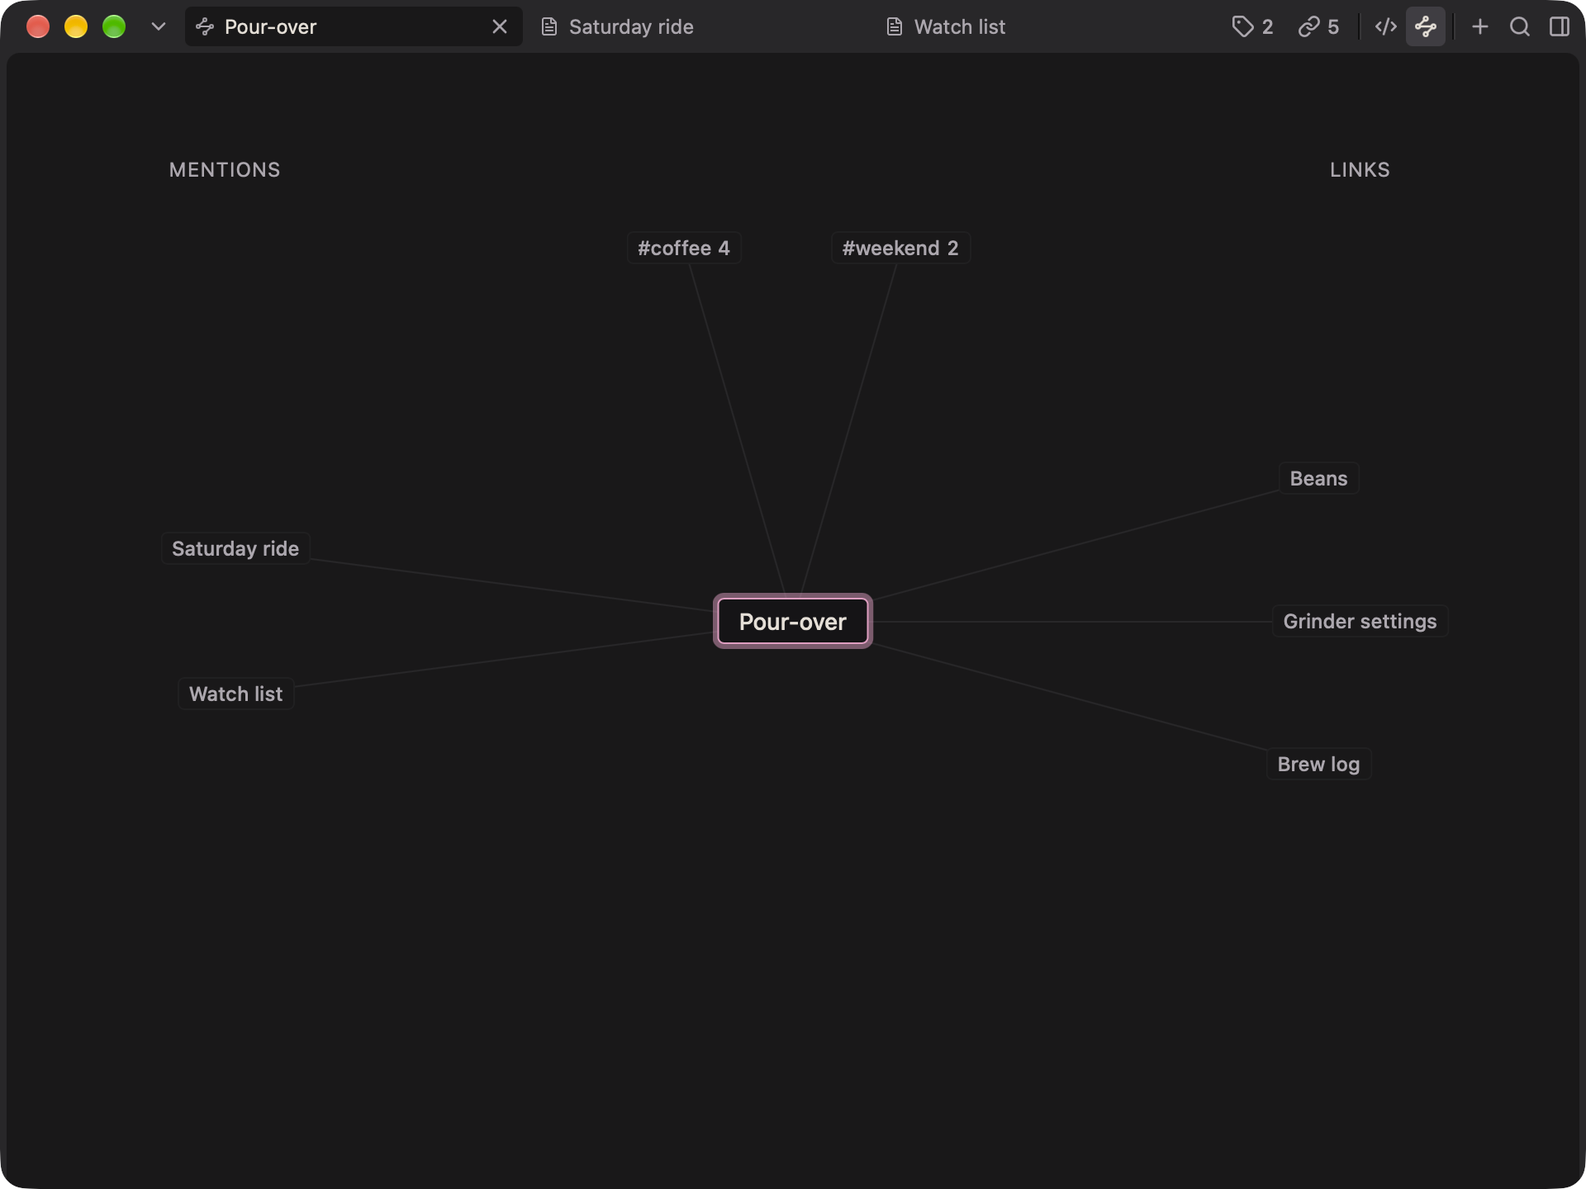
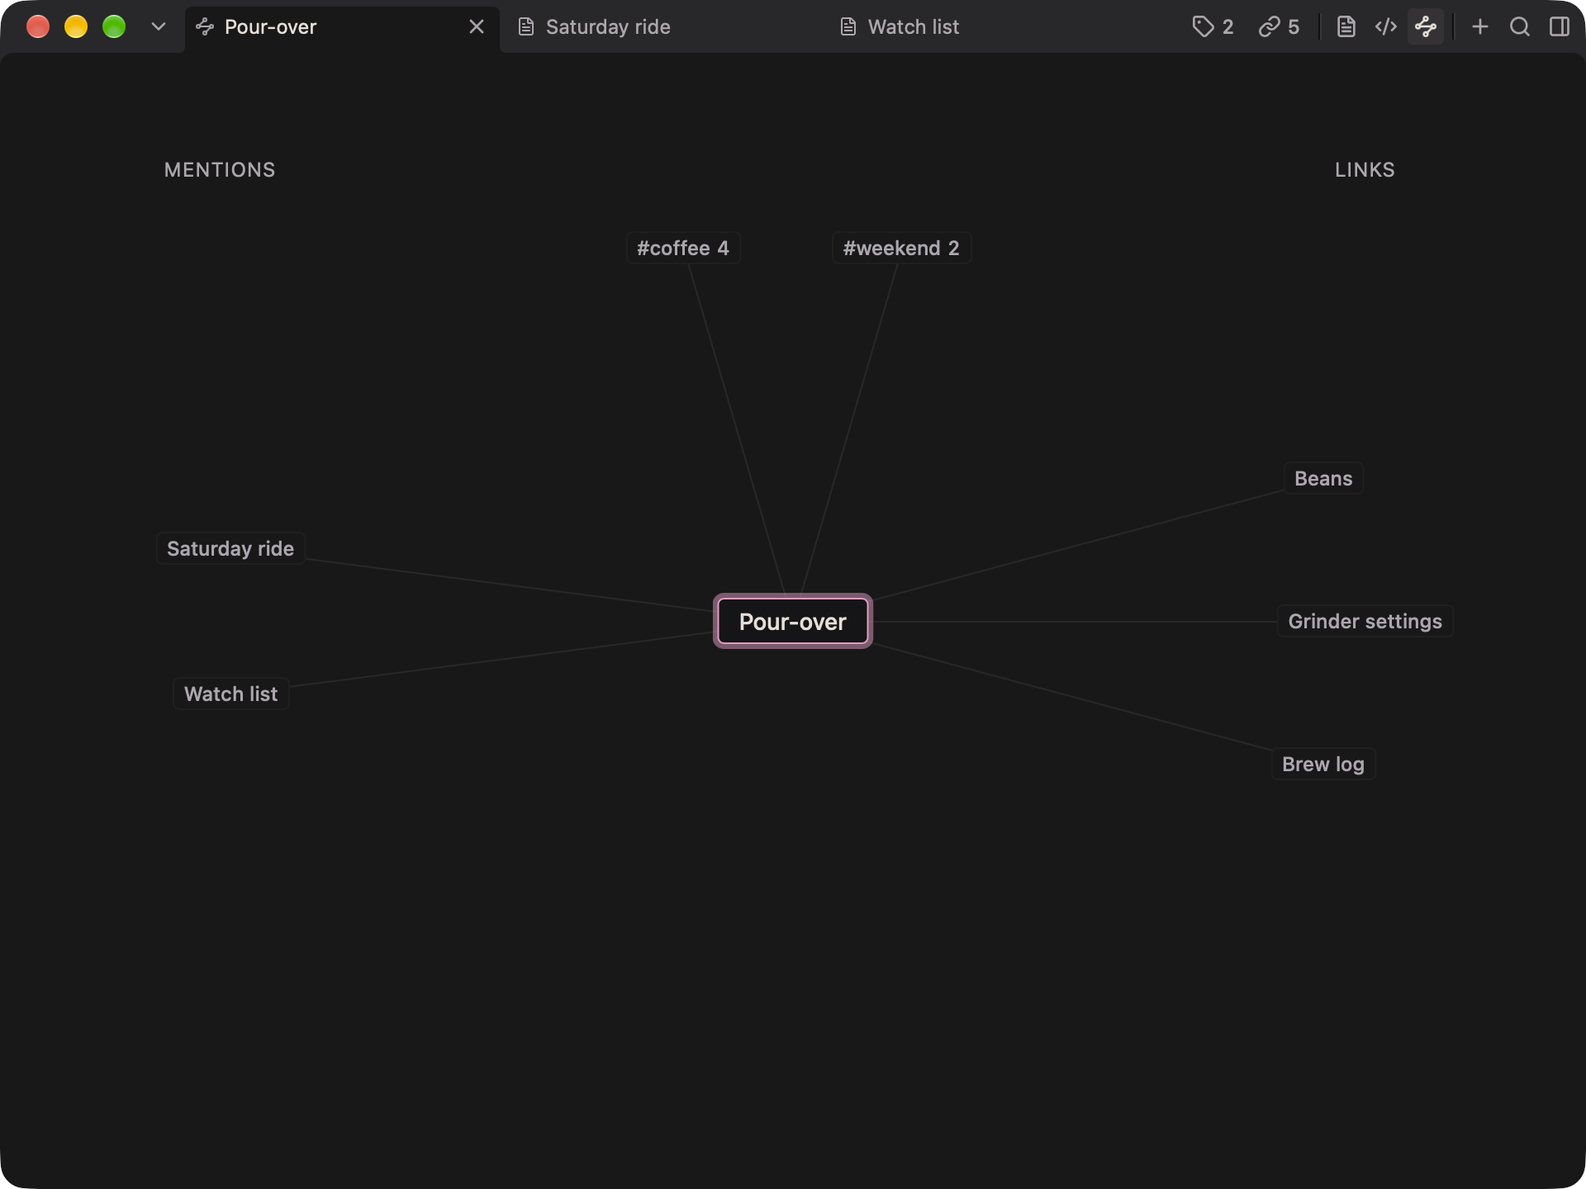
feat(tabs): ✨ attach tabs to the note & hold their width (#450)

diff --git a/src/components/tabs/tab-strip.tsx b/src/components/tabs/tab-strip.tsx
@@ -12,6 +12,7 @@ import {
   useSensor,
   useSensors,
 } from "@dnd-kit/core";
+import { restrictToParentElement } from "@dnd-kit/modifiers";
 import type { AnimateLayoutChanges } from "@dnd-kit/sortable";
 import {
   defaultAnimateLayoutChanges,
@@ -232,7 +233,7 @@ function TabItem({ active, notesDir, sole, tab }: TabItemProps) {
           button a sibling of the tab rather than a child of it. */}
       <span
         className={cn(
-          "group tab-motion hover:text-foreground has-[:focus-visible]:outline-ring flex h-6 max-w-56 min-w-24 flex-1 basis-0 items-center rounded-sm has-[:focus-visible]:outline-2 has-[:focus-visible]:-outline-offset-2",
+          "group tab-motion tab-shape hover:text-foreground has-[:focus-visible]:outline-ring flex h-7 max-w-56 min-w-24 flex-1 basis-0 items-center rounded-t-sm has-[:focus-visible]:outline-2 has-[:focus-visible]:-outline-offset-2",
           active
             ? "bg-background text-foreground"
             : "hover:bg-muted dark:hover:bg-muted/50",
@@ -253,7 +254,9 @@ function TabItem({ active, notesDir, sole, tab }: TabItemProps) {
           <button
             aria-controls={tabPanelId(id)}
             aria-selected={active}
-            className="flex min-w-0 flex-1 items-center ps-1.5 text-start focus-visible:outline-none"
+            // The whole box, with the close button floating over its end, so
+            // every press outside that button is the tab's.
+            className="flex min-w-0 flex-1 items-center self-stretch ps-1.5 pe-7 pb-1 text-start focus-visible:outline-none"
             // `deep`, since a bare mark only counts a press on the button itself
             // and the label and glyph sit inside it.
             data-tauri-drag-region={sole ? "deep" : undefined}
@@ -272,7 +275,7 @@ function TabItem({ active, notesDir, sole, tab }: TabItemProps) {
           <button
             aria-label={`close ${label}`}
             className={cn(
-              "hover:bg-muted hover:text-foreground ms-1 me-1 inline-flex size-5 shrink-0 items-center justify-center rounded-sm opacity-0 transition-all duration-150 ease-out group-hover:opacity-100 focus-visible:opacity-100",
+              "hover:bg-muted hover:text-foreground absolute end-1 top-0.5 inline-flex size-5 items-center justify-center rounded-sm opacity-0 transition duration-150 ease-out group-hover:opacity-100 focus-visible:opacity-100",
               active && "text-muted-foreground opacity-100"
             )}
             data-tab-close
@@ -449,9 +452,11 @@ function TabList({ activeId, tabs }: TabListProps) {
     // Synchronous, or a frame of cut tabs paints first.
     const observer = new ResizeObserver(() => {
       flushSync(() => {
+        // `clientWidth` holds two gaps of padding for the feet, and the last
+        // tab needs no gap after it, so one gap comes off.
         setFit(
           Math.floor(
-            (list.clientWidth + TAB_GAP_PX) / (TAB_MIN_PX + TAB_GAP_PX)
+            (list.clientWidth - TAB_GAP_PX) / (TAB_MIN_PX + TAB_GAP_PX)
           )
         );
       });
@@ -507,6 +512,7 @@ function TabList({ activeId, tabs }: TabListProps) {
         collisionDetection={closestCenter}
         // What lets `animateLayoutChanges` see a change no drag made.
         measuring={{ droppable: { strategy: MeasuringStrategy.Always } }}
+        modifiers={[restrictToParentElement]}
         onDragEnd={handleDragEnd}
         onDragStart={handleDragStart}
         sensors={sensors}
@@ -516,7 +522,8 @@ function TabList({ activeId, tabs }: TabListProps) {
           strategy={horizontalListSortingStrategy}
         >
           <div
-            className="flex min-w-0 flex-1 items-center gap-1 overflow-clip"
+            // Room inside the clip for the feet and the 4px the tabs run below the row.
+            className="-mx-1 -mb-1 flex h-7 min-w-0 flex-1 items-center gap-1 overflow-clip px-1"
             onKeyDown={handleKeyDown}
             ref={observeWidth}
             role="tablist"

diff --git a/src/components/tabs/tab-strip.spec.tsx b/src/components/tabs/tab-strip.spec.tsx
@@ -361,45 +361,53 @@ describe("tab strip", () => {
       ).toBeVisible();
     });
 
-    it("should show only the tabs that fit whole, holding the showing one", async () => {
-      const Platform = globalThis.ResizeObserver;
-      const reports: ResizeObserverCallback[] = [];
+    // 203px is one short of the 204px two tabs need: 8px of foot padding, two
+    // 96px tabs and their 4px gap.
+    it.each([
+      { shown: ["c", "d"], width: 220 },
+      { shown: ["d"], width: 203 },
+    ])(
+      "should show only the tabs that fit a $width px strip whole, holding the showing one",
+      async ({ shown, width }) => {
+        const Platform = globalThis.ResizeObserver;
+        const reports: ResizeObserverCallback[] = [];
 
-      // happy-dom lays nothing out and never reports, so the test does both.
-      Object.assign(globalThis, {
-        ResizeObserver: class extends Platform {
-          constructor(onResize: ResizeObserverCallback) {
-            super(onResize);
-            reports.push(onResize);
+        // happy-dom lays nothing out and never reports, so the test does both.
+        Object.assign(globalThis, {
+          ResizeObserver: class extends Platform {
+            constructor(onResize: ResizeObserverCallback) {
+              super(onResize);
+              reports.push(onResize);
+            }
+          },
+        });
+        onTestFinished(() => {
+          Object.assign(globalThis, { ResizeObserver: Platform });
+        });
+        await mountStrip(
+          [
+            { id: "a", kind: "note", path: "a.md" },
+            { id: "b", kind: "note", path: "b.md" },
+            { id: "c", kind: "note", path: "c.md" },
+            { id: "d", kind: "note", path: "d.md" },
+          ],
+          "d"
+        );
+        Object.defineProperty(screen.getByRole("tablist"), "clientWidth", {
+          value: width,
+        });
+
+        act(() => {
+          for (const report of reports) {
+            report([], new Platform(report));
           }
-        },
-      });
-      onTestFinished(() => {
-        Object.assign(globalThis, { ResizeObserver: Platform });
-      });
-      await mountStrip(
-        [
-          { id: "a", kind: "note", path: "a.md" },
-          { id: "b", kind: "note", path: "b.md" },
-          { id: "c", kind: "note", path: "c.md" },
-          { id: "d", kind: "note", path: "d.md" },
-        ],
-        "d"
-      );
-      Object.defineProperty(screen.getByRole("tablist"), "clientWidth", {
-        value: 220,
-      });
+        });
 
-      act(() => {
-        for (const report of reports) {
-          report([], new Platform(report));
-        }
-      });
-
-      expect(
-        screen.getAllByRole("tab").map((tab) => tab.textContent)
-      ).toStrictEqual(["c", "d"]);
-    });
+        expect(
+          screen.getAllByRole("tab").map((tab) => tab.textContent)
+        ).toStrictEqual(shown);
+      }
+    );
   });
 
   describe("tab glyphs", () => {

diff --git a/src/styles.css b/src/styles.css
@@ -22,6 +22,30 @@
     color 150ms ease-out;
 }
 
+/* A tab's feet, so the active tab flows into the note and a hovered one into
+   its fill. `inherit` follows the fill's fade. */
+@utility tab-shape {
+  position: relative;
+  &::before,
+  &::after {
+    content: "";
+    position: absolute;
+    bottom: 0;
+    width: 4px;
+    height: 4px;
+    pointer-events: none;
+    background: inherit;
+  }
+  &::before {
+    left: -4px;
+    mask: radial-gradient(circle at 0 0, transparent 4px, black 4px);
+  }
+  &::after {
+    right: -4px;
+    mask: radial-gradient(circle at 100% 0, transparent 4px, black 4px);
+  }
+}
+
 @theme inline {
   --color-background: var(--background);
   --color-shell: var(--shell);

diff --git a/src/components/workspace/workspace.tsx b/src/components/workspace/workspace.tsx
@@ -448,8 +448,9 @@ export function Workspace({ onOpenSearch }: { onOpenSearch: () => void }) {
           <Titlebar
             className="pe-(--bar-reserve)"
             ref={titlebar}
-            // The bar's own 4px end gap, plus the group's overlap.
-            style={{ "--bar-reserve": `${reserve + 4}px` }}
+            // The bar's own 4px end gap, plus the group's overlap or the card's
+            // 8px corner, whichever the last tab's foot has to clear.
+            style={{ "--bar-reserve": `${Math.max(reserve, 8) + 4}px` }}
           >
             <TabStrip activeId={activeId} tabs={tabs} />
           </Titlebar>

diff --git a/src/components/workspace/bar-group.tsx b/src/components/workspace/bar-group.tsx
@@ -115,7 +115,9 @@ interface BarGroupProps {
 export function BarGroup({ activeTab, onNew, onSearch, ref }: BarGroupProps) {
   return (
     <div
-      className="text-muted-foreground absolute top-0 right-0 flex h-8 items-center py-1 pe-1"
+      // Its widest state, two-digit tag and mention counts, so the strip's
+      // end and the tabs' widths hold still as the showing tab changes.
+      className="text-muted-foreground absolute top-0 right-0 flex h-8 min-w-66 items-center justify-end py-1 pe-1"
       data-tauri-drag-region="deep"
       ref={ref}
     >

diff --git a/DESIGN.md b/DESIGN.md
@@ -81,9 +81,9 @@ The icon is a face on the tile, the way Finder's is. The squircle runs pink thro
 
 **A nested surface takes the parent's radius less the parent's padding** (`D26`). Write it as `calc()` against the parent token, the way `.suggestion-item` and `.link-editor-input` do, so the two curves stay parallel if `--radius` moves.
 
-Neighboring tabs use Tailwind's 4px spacing unit. The title bar's buttons sit flush: a 24px icon box already holds its 14px glyph 5px from each edge, so neighbours sit 10px apart glyph to glyph, and a gap would only widen the group. A text item in the bar insets 6px (`1.5`), the compact inset the code-block toolbar and shadcn's icon-side padding already use: the `xs` button supplies it for the tag and mentions counts. A tab insets its glyph by the same 6px. Bars are 32px tall, with a 24px content row and 4px above and below it. Smaller text is centered within the row. The right edge uses the same 4px inset, and a popup opened from the bar, the tag picker, the mentions list, or a tooltip, lifts 4px off it.
+Neighboring tabs use Tailwind's 4px spacing unit. The title bar's buttons sit flush: a 24px icon box already holds its 14px glyph 5px from each edge, so neighbours sit 10px apart glyph to glyph, and a gap would only widen the group. A text item in the bar insets 6px (`1.5`), the compact inset the code-block toolbar and shadcn's icon-side padding already use: the `xs` button supplies it for the tag and mentions counts. A tab insets its glyph by the same 6px. Bars are 32px tall, with a 24px content row and 4px above and below it. Smaller text is centered within the row. A tab keeps its label in that row and runs its fill through the 4px below it to the band's bottom edge, where the note begins. The right edge uses the same 4px inset. In the main window the strip stops 4px before the button group or 4px before the note's 8px corner, whichever reaches further in, so no foot sits on the corner. A popup opened from the bar, the tag picker, the mentions list, or a tooltip, lifts 4px off it.
 
-**The title bar's buttons are one group, pinned to the window's top right** (`D98`). The showing tab's controls lead: the tag control and the mentions count, then the view picker. The app's follow: new note, find a note, browse notes. An etched vertical `Separator` sets each run apart, a dark line with a highlight beside it, so it reads as a dent where a single line between icon buttons reads as one more glyph. The group keeps its place whether the browser is open or closed, so the browse button stays under the pointer, and the tab strip stops short of it. Adding a button means choosing which run it belongs to.
+**The title bar's buttons are one group, pinned to the window's top right** (`D98`). The showing tab's controls lead: the tag control and the mentions count, then the view picker. The app's follow: new note, find a note, browse notes. An etched vertical `Separator` sets each run apart, a dark line with a highlight beside it, so it reads as a dent where a single line between icon buttons reads as one more glyph. The group keeps its place whether the browser is open or closed, so the browse button stays under the pointer, and the tab strip stops short of it. The group also holds its widest width, 264px, room for two-digit tag and mention counts, so the strip's end and the tabs' widths stay put as the showing tab changes. A wider count pushes the strip as any control does. Adding a button means choosing which run it belongs to.
 
 The browser is a `--background` card on the right, shaped like the note's, and the 4px gap between the two cards is the resize handle. Browser search and collection controls are 32px tall, expanding to at least 44px for coarse pointers.
 
@@ -118,8 +118,8 @@ Motion carries a state change, with one exception: the welcome mark blinks, beca
 - **The titlebar height and the traffic light offset are one decision.** The bar is 32px and `trafficLightPosition` is `{ x: 16, y: 18 }` to centre the buttons in it, so plain centring puts the title on their line and the space above and below them is equal by construction. The offset is carried twice, in `tauri.conf.json` for the `main` window and in `lib.rs` for `capture`, so both move together. Changing the height means rechecking them, and `D29` records what happens when they drift apart.
 - **One band frames the note** (`D98`). The titlebar has no dividing border or inset shadow. Quick capture keeps its bottom hint strip, also with no dividing edge. Both windows place the note on a `--background` surface below the `--shell` band. The surface has an 8px outer radius and clips its content at that radius. In the main window it runs to the window's left and bottom edges, and to its right edge while the browser is closed. Its bottom corners are square, since a rounded corner there would flare the gap between the cards, and the scrollbar rides the surface's edge. Quick capture insets its surface 4px from the sides within a `--shell` frame, since its card is rounded on all four corners above the hint strip. No extra vertical margin separates the surface from a band.
 - **The titlebar holds the open tabs, then the button group** (`D52`, `D88`, `D98`). The band uses `--shell`, so the note's `--background` reads as its own surface. The find button sits in the app's run at the right end, where macOS puts search, and is the one mouse route into ⌘P once a tab is open; it stays through the empty state and over an external file, since finding a note is an app action.
-- **A tab is a shaped item at the bar rung**: 24px tall and `rounded-sm`, the box the new-note button and the tab list button use. Tabs sit in a `gap-1` run with no divider. The active tab carries the workspace's `--background` and `--foreground`; an inactive tab is transparent in the band's `--muted-foreground`. A tab leads its label with a 12px glyph in `--muted-foreground`, active or not, 6px before the label. The save dot takes the glyph's box. Tabs divide the strip evenly between `min-w-24` and `max-w-56`, so a lone tab is one capped item. Past that the strip shows only the tabs that fit whole, and a chevron leading it lists them all. External files use the same readable titles and sans typography as library notes. A dragged tab takes a shadow and paints over the tabs it crosses (`D60`).
-- Ghost buttons and inactive tabs use `--muted` on hover, at 50% in dark mode, with `--foreground` text. The active tab keeps its workspace fill on hover, and a tab's close button uses the full muted hover fill. Toggles take the ghost buttons' hover fill for hover and pressed states. The new-note button, the find button and the tab list button are ghost `Button`s at `icon-xs`.
+- **A tab is joined to the note it selects.** It is 28px tall with `rounded-t-sm` top corners and square bottoms, and its fill meets the note surface with no seam. Two 4px feet outside its bottom corners curve outward into that surface, the `tab-shape` utility in `src/styles.css`, so the active tab reads as the note's handle. Tabs sit in a `gap-1` run with no divider, and the foot is the gap, so a foot never reaches the next tab. The active tab carries the workspace's `--background` and `--foreground`; an inactive tab is transparent in the band's `--muted-foreground`. A tab leads its label with a 12px glyph in `--muted-foreground`, active or not, 6px before the label. The save dot takes the glyph's box. Tabs divide the strip evenly between `min-w-24` and `max-w-56`, so a lone tab is one capped item. Past that the strip shows only the tabs that fit whole, and a chevron leading it lists them all. External files use the same readable titles and sans typography as library notes. A dragged tab takes a shadow, paints over the tabs it crosses, and stays inside the strip (`D60`).
+- Ghost buttons and inactive tabs use `--muted` on hover, at 50% in dark mode, with `--foreground` text. A hovered inactive tab takes that fill in the tab's shape, feet included. The active tab keeps its workspace fill on hover, and a tab's close button uses the full muted hover fill. Toggles take the ghost buttons' hover fill for hover and pressed states. The new-note button, the find button and the tab list button are ghost `Button`s at `icon-xs`.
 - **The palette is the action surface.** A new action on the note, a tab, or the app goes in ⌘⇧P rather than into a bar. `SPEC.md` lists what it holds. ⌘P finds a note and ⌘⇧P acts on the app, on the tab that is showing, or on the note inside it, according to what the action reads.
 - **Compact note rows in the palette, mentions and graph menus use `NoteLabel`**, in `src/components/notes/note-label.tsx`: the title, a pin when pinned, then the folder in `--muted-foreground` at `text-xs`, in one `gap-1.5` row, with the list's own fact after it, tags in the palette and `+1` in mentions. The create and rename rows read the action, then the filename it produces, in the item's gap. Tone and size carry the separation, so no middot, pipe, or dash sits between them. A second line is for a second kind of content, which is what a snippet and a mention's context line are.
 - **The graph centres attention on its current note or hub.** The centre uses `--card`, `--foreground`, and its larger size. Surrounding nodes and overflow controls use `--background`, `--muted-foreground`, and a 1px border in `--border` at 50%. Nodes retain the badge's 4px corners. Hover changes the border and label to `--foreground` without changing the fill; a surrounding note or hub's connector also takes `--foreground`, from `--border` at rest. Fills stay opaque so connectors remain hidden behind nodes throughout transitions. Unresolved links have faint labels and dashed borders, with no hover treatment.

diff --git a/SPEC.md b/SPEC.md
@@ -300,7 +300,7 @@ What notras does, as claims checkable against a running build.
 - At rest, the active tab matches the workspace background and has brighter text; inactive tabs are transparent. Ghost buttons, toggles and inactive tabs use a neutral hover fill, at half opacity in dark mode. The active tab keeps its workspace fill on hover. Tab close buttons use the full neutral hover fill. Idle controls share the bands' muted text tone. Hover and selection colors fade over 150ms with ease-out, including while tabs are reordered. Reduced motion makes these fades effectively immediate.
 - The lit view picker item and an open popup's ghost button use the same fill and body-ink glyph as a hovered one, so hovering them changes nothing. The fill remains while the view is lit or the popup is open, including when the pointer leaves it. Icon-only title bar buttons and view picker items have matching highlighted areas inside their 24px boxes.
 - The tag picker, the mentions list, and every tooltip open 4px off their bar. Hovering a title bar button shows a tooltip naming the action, with every shortcut bound to it beside the name: `new note` ⌘n, `find a note` ⌘p, `browse notes` ⌘\, `markdown source` ⌘e, `graph view` ⌘⌥g, `edit tags` ⌘⇧y, `show mentions` ⌘⇧l, `show tabs` ⌘⇧a.
-- Both windows use 32px bars. The 24px tab and control rows have 4px above and below them. A tab insets its glyph 6px, and the tag and mentions counts sit 4px after their glyph. Neighboring tabs have 4px gaps. The title bar's buttons sit flush, and etched grooves with 4px either side set the tag and mentions controls apart from the view picker, and that apart from the app's buttons. Native window controls retain their reserved clearance.
+- Both windows use 32px bars. The 24px control row has 4px above and below it. A tab keeps its label in that row and runs its fill through the 4px below it to the band's bottom edge. Its 4px feet curve outward at its base, so the active tab, whose fill is the note's, meets the note with no seam. A tab insets its glyph 6px, and the tag and mentions counts sit 4px after their glyph. Neighboring tabs have 4px gaps. The strip ends 4px before the button group or 4px before the note surface's 8px corner, whichever reaches further into the bar, so the last tab's foot never sits on the corner. The button group keeps room for two-digit tag and mention counts, so switching tabs moves neither the strip's end nor the tabs' widths. A dragged tab stops at the strip's ends. The title bar's buttons sit flush, and etched grooves with 4px either side set the tag and mentions controls apart from the view picker, and that apart from the app's buttons. Native window controls retain their reserved clearance.
 - The note surface has 8px outer corners in both windows, and clips its content at those corners. In the main window it runs to the window's left and bottom edges, and to its right edge while the browser is closed, and its bottom corners are square. In quick capture it has 4px side insets. The editor scrollbar rides the surface's edge, its thumb ending 1px inside it. No extra vertical margin separates the surface from a band.
 - The app bundle declares macOS 26.0 as its minimum system version, so Finder refuses to open it on an older system, and the cask refuses to install below macOS 26.
 - The window itself never scrolls, including when content overflows or caret movement asks an ancestor to scroll. The note or source editor has one vertical scrollbar, below the title bar in the main window and between the two bands in quick capture. No outer scrollbar runs the full height of the window or crosses a band.
